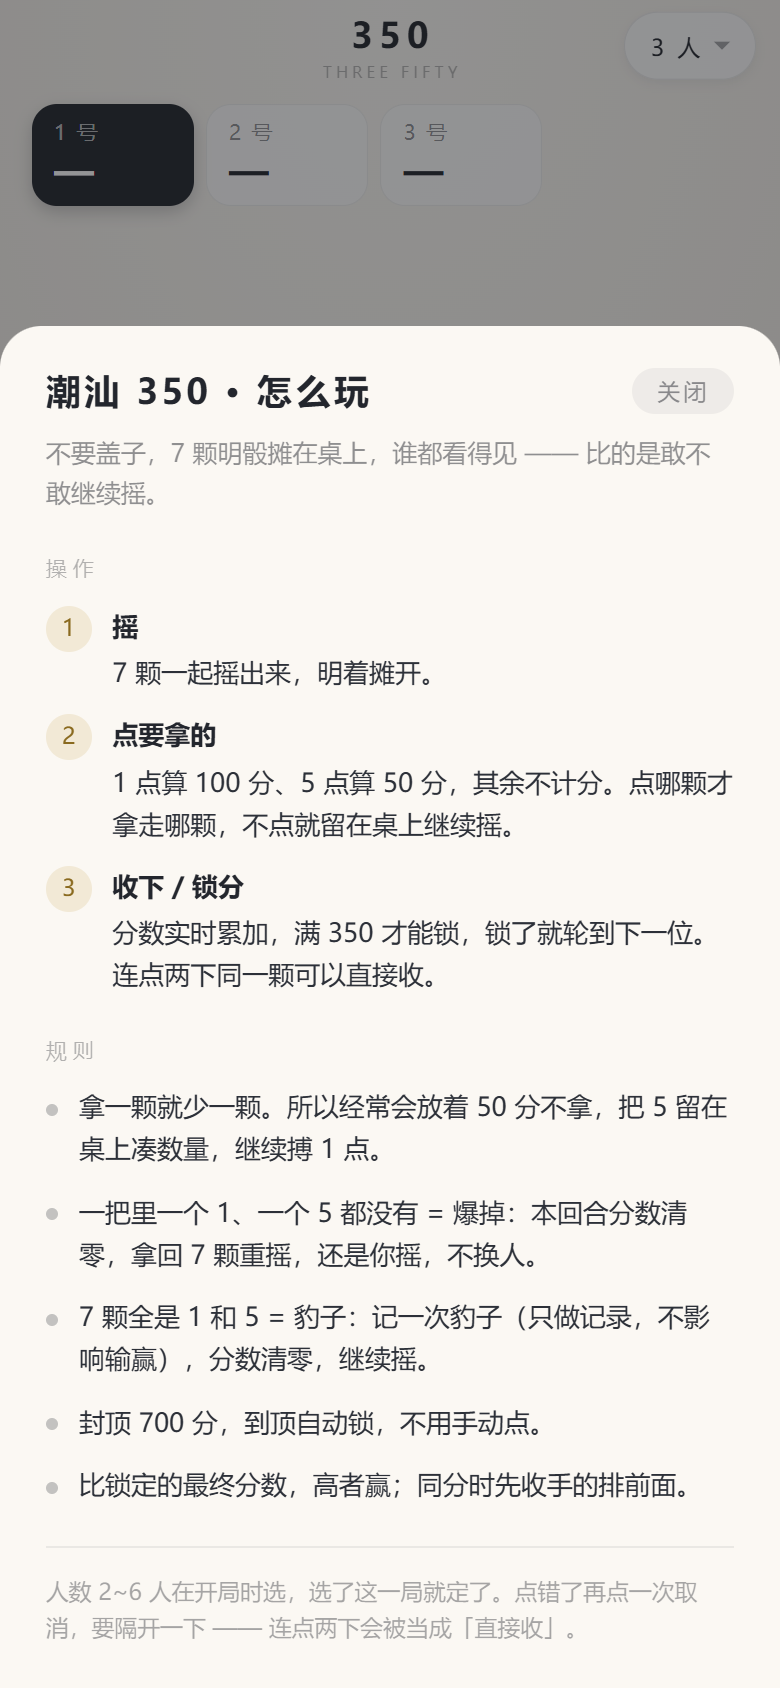
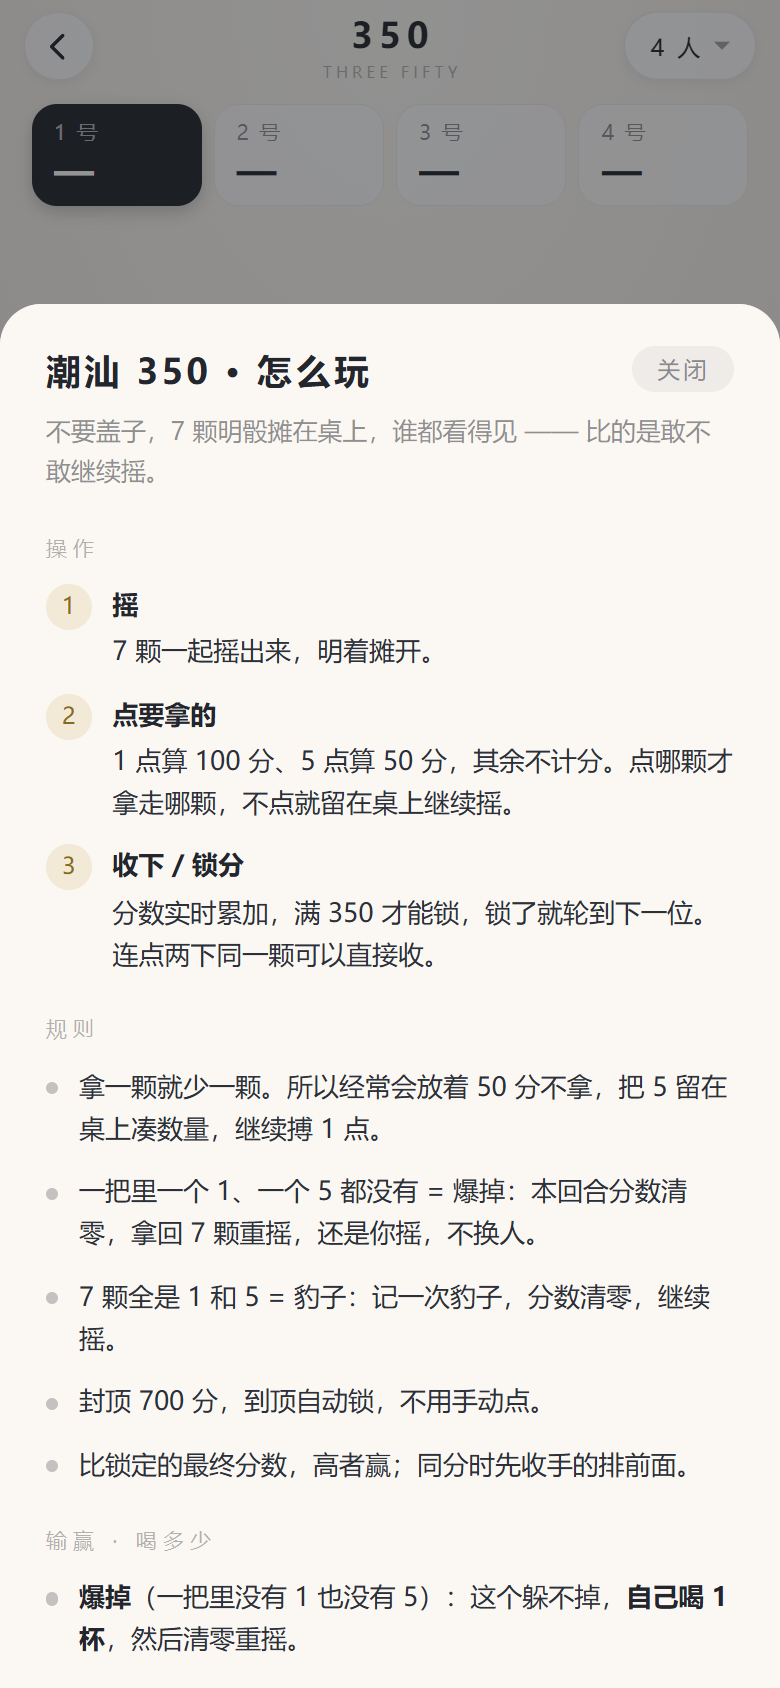
chore: sync

diff --git a/app/src/clean/assets/www/f350.js b/app/src/clean/assets/www/f350.js
@@ -292,8 +292,16 @@
     var list = liveHand();
     if (!list.length) return;
 
-    /* 豹子：7 颗全是 1 和 5 —— 记一次，分数清零，重新拿 7 颗继续摇 */
+    /* 豹子：7 颗全是 1 和 5 —— 记一次，分数清零，重新拿 7 颗继续摇。
+       正豹（清一色 1 或 5）比 15 豹更狠：桌上其他人喝 2 杯，15 豹喝 1 杯，
+       摇的人自己不喝 —— 所以有人会专门去拼。 */
     if (isLion(list)) {
+      var allOne = true, allFive = true;
+      for (var q = 0; q < list.length; q++) {
+        if (list[q].v !== 1) allOne = false;
+        if (list[q].v !== 5) allFive = false;
+      }
+      var pure = allOne || allFive;
       current().lion = (current().lion || 0) + 1;
       G.round = 0;
       G.taken = [];
@@ -302,7 +310,8 @@
       G.phase = 'ready';
       save();
       render();
-      hint('豹子 · 记 1 次，分数清零，重新摇', 'gold');
+      hint(pure ? '正豹！其他每人喝 2 杯 · 分数清零重摇'
+                : '15 豹！其他每人喝 1 杯 · 分数清零重摇', 'gold');
       vibrate([16, 60, 16, 60, 26]);
       return;
     }
@@ -321,7 +330,7 @@
       G.phase = 'bust';
       save();
       render();
-      hint('一个 1 和 5 都没有 · 分数清零 · 点「清零重摇」继续', 'warn');
+      hint('爆了 · 喝 1 杯 · 分数清零，点「清零重摇」继续', 'warn');
       vibrate([40, 70, 40]);
       return;
     }
@@ -759,7 +768,7 @@
     }
     openMask(
       '<span class="f3-sheet-title">' + arr[0].name + ' 赢</span>' +
-      '<span class="f3-sheet-sub">同分先收手的排前面</span>' +
+      '<span class="f3-sheet-sub">同分先收手的排前面 · 最低的喝 2 杯</span>' +
       '<div class="f3-rank">' + rows + '</div>' +
       '<button class="btn primary" data-act="restart">再来一局</button>'
     );
@@ -1117,11 +1126,21 @@
       rules: [
         '拿一颗就少一颗。所以经常会放着 50 分不拿，把 5 留在桌上凑数量，继续搏 1 点。',
         '一把里一个 1、一个 5 都没有 = 爆掉：本回合分数清零，拿回 7 颗重摇，还是你摇，不换人。',
-        '7 颗全是 1 和 5 = 豹子：记一次豹子（只做记录，不影响输赢），分数清零，继续摇。',
+        '7 颗全是 1 和 5 = 豹子：记一次豹子，分数清零，继续摇。',
         '封顶 700 分，到顶自动锁，不用手动点。',
         '比锁定的最终分数，高者赢；同分时先收手的排前面。'
       ],
-      note: '人数 2~6 人，开局时选；想改点右上角的「N 人」，换了人数会重开一局。点错了再点一次取消要隔开一下 —— 连点两下会被当成「直接收」。'
+      /* 这几条是桌上真正分酒的地方。App 只算分、只记豹子，
+         喝多少由桌上自己定，所以单独一段，跟「规则」分开写。 */
+      drinks: [
+        '<strong>爆掉</strong>（一把里没有 1 也没有 5）：这个躲不掉，<strong>自己喝 1 杯</strong>，然后清零重摇。',
+        '<strong>摇出豹子</strong>：摇的人不喝，台上其他人一起喝 —— ' +
+        '<strong>15 豹</strong>（1 和 5 混着）每人 <strong>1 杯</strong>；' +
+        '<strong>正豹</strong>（清一色 1111111 或 5555555）每人 <strong>2 杯</strong>。',
+        '所以有人会专门去拼豹子：自己一分不涨、还不用喝，一桌人都得端杯。',
+        '<strong>整局打完</strong>：分数最低的喝 <strong>2 杯</strong>。'
+      ],
+      note: '上面这些杯数是默认值，开局前按自己的量定，能加能减。App 只管算分和记豹子，喝不喝、喝多少在桌上说好。想改人数点右上角「N 人」（2~12），换人数会重开一局。'
     }
   };
 
@@ -1141,7 +1160,16 @@
     for (var j = 0; j < r.rules.length; j++) {
       h += '<div class="rule-li"><em></em><span>' + r.rules[j] + '</span></div>';
     }
-    h += '</div><div class="rule-note">' + r.note + '</div>';
+    h += '</div>';
+    /* 「喝多少」单独一段：这是桌上真正分酒的地方，混在规则里容易被当成可选事项划过去 */
+    if (r.drinks) {
+      h += '<div class="rule-sec"><div class="rule-sec-t">输赢 · 喝多少</div>';
+      for (var k = 0; k < r.drinks.length; k++) {
+        h += '<div class="rule-li"><em></em><span>' + r.drinks[k] + '</span></div>';
+      }
+      h += '</div>';
+    }
+    h += '<div class="rule-note">' + r.note + '</div>';
 
     $('ruleBody').innerHTML = h;
     mask.style.display = 'flex';

diff --git a/app/src/full/assets/www/f350.js b/app/src/full/assets/www/f350.js
@@ -292,8 +292,16 @@
     var list = liveHand();
     if (!list.length) return;
 
-    /* 豹子：7 颗全是 1 和 5 —— 记一次，分数清零，重新拿 7 颗继续摇 */
+    /* 豹子：7 颗全是 1 和 5 —— 记一次，分数清零，重新拿 7 颗继续摇。
+       正豹（清一色 1 或 5）比 15 豹更狠：桌上其他人喝 2 杯，15 豹喝 1 杯，
+       摇的人自己不喝 —— 所以有人会专门去拼。 */
     if (isLion(list)) {
+      var allOne = true, allFive = true;
+      for (var q = 0; q < list.length; q++) {
+        if (list[q].v !== 1) allOne = false;
+        if (list[q].v !== 5) allFive = false;
+      }
+      var pure = allOne || allFive;
       current().lion = (current().lion || 0) + 1;
       G.round = 0;
       G.taken = [];
@@ -302,7 +310,8 @@
       G.phase = 'ready';
       save();
       render();
-      hint('豹子 · 记 1 次，分数清零，重新摇', 'gold');
+      hint(pure ? '正豹！其他每人喝 2 杯 · 分数清零重摇'
+                : '15 豹！其他每人喝 1 杯 · 分数清零重摇', 'gold');
       vibrate([16, 60, 16, 60, 26]);
       return;
     }
@@ -321,7 +330,7 @@
       G.phase = 'bust';
       save();
       render();
-      hint('一个 1 和 5 都没有 · 分数清零 · 点「清零重摇」继续', 'warn');
+      hint('爆了 · 喝 1 杯 · 分数清零，点「清零重摇」继续', 'warn');
       vibrate([40, 70, 40]);
       return;
     }
@@ -759,7 +768,7 @@
     }
     openMask(
       '<span class="f3-sheet-title">' + arr[0].name + ' 赢</span>' +
-      '<span class="f3-sheet-sub">同分先收手的排前面</span>' +
+      '<span class="f3-sheet-sub">同分先收手的排前面 · 最低的喝 2 杯</span>' +
       '<div class="f3-rank">' + rows + '</div>' +
       '<button class="btn primary" data-act="restart">再来一局</button>'
     );
@@ -1117,11 +1126,21 @@
       rules: [
         '拿一颗就少一颗。所以经常会放着 50 分不拿，把 5 留在桌上凑数量，继续搏 1 点。',
         '一把里一个 1、一个 5 都没有 = 爆掉：本回合分数清零，拿回 7 颗重摇，还是你摇，不换人。',
-        '7 颗全是 1 和 5 = 豹子：记一次豹子（只做记录，不影响输赢），分数清零，继续摇。',
+        '7 颗全是 1 和 5 = 豹子：记一次豹子，分数清零，继续摇。',
         '封顶 700 分，到顶自动锁，不用手动点。',
         '比锁定的最终分数，高者赢；同分时先收手的排前面。'
       ],
-      note: '人数 2~6 人，开局时选；想改点右上角的「N 人」，换了人数会重开一局。点错了再点一次取消要隔开一下 —— 连点两下会被当成「直接收」。'
+      /* 这几条是桌上真正分酒的地方。App 只算分、只记豹子，
+         喝多少由桌上自己定，所以单独一段，跟「规则」分开写。 */
+      drinks: [
+        '<strong>爆掉</strong>（一把里没有 1 也没有 5）：这个躲不掉，<strong>自己喝 1 杯</strong>，然后清零重摇。',
+        '<strong>摇出豹子</strong>：摇的人不喝，台上其他人一起喝 —— ' +
+        '<strong>15 豹</strong>（1 和 5 混着）每人 <strong>1 杯</strong>；' +
+        '<strong>正豹</strong>（清一色 1111111 或 5555555）每人 <strong>2 杯</strong>。',
+        '所以有人会专门去拼豹子：自己一分不涨、还不用喝，一桌人都得端杯。',
+        '<strong>整局打完</strong>：分数最低的喝 <strong>2 杯</strong>。'
+      ],
+      note: '上面这些杯数是默认值，开局前按自己的量定，能加能减。App 只管算分和记豹子，喝不喝、喝多少在桌上说好。想改人数点右上角「N 人」（2~12），换人数会重开一局。'
     }
   };
 
@@ -1141,7 +1160,16 @@
     for (var j = 0; j < r.rules.length; j++) {
       h += '<div class="rule-li"><em></em><span>' + r.rules[j] + '</span></div>';
     }
-    h += '</div><div class="rule-note">' + r.note + '</div>';
+    h += '</div>';
+    /* 「喝多少」单独一段：这是桌上真正分酒的地方，混在规则里容易被当成可选事项划过去 */
+    if (r.drinks) {
+      h += '<div class="rule-sec"><div class="rule-sec-t">输赢 · 喝多少</div>';
+      for (var k = 0; k < r.drinks.length; k++) {
+        h += '<div class="rule-li"><em></em><span>' + r.drinks[k] + '</span></div>';
+      }
+      h += '</div>';
+    }
+    h += '<div class="rule-note">' + r.note + '</div>';
 
     $('ruleBody').innerHTML = h;
     mask.style.display = 'flex';

diff --git a/app/src/clean/assets/www/index.html b/app/src/clean/assets/www/index.html
@@ -63,7 +63,7 @@
 
     <div class="home-tip" id="homeTip"></div>
 
-    <div class="home-foot" id="homeVer">v1.10.6 · 仅供朋友聚会娱乐</div>
+    <div class="home-foot" id="homeVer">v1.10.7 · 仅供朋友聚会娱乐</div>
   </div>
 </div>
 
@@ -179,7 +179,7 @@
     <div class="hint" id="hint">点「摇一摇」开始这一局</div>
     <div class="btn-row" id="btnRow"></div>
     <div class="foot">
-      <span>v1.10.6</span>
+      <span>v1.10.7</span>
       <button class="mode-link" id="ruleBtn">玩法说明</button>
     </div>
   </div>

diff --git a/app/src/full/assets/www/index.html b/app/src/full/assets/www/index.html
@@ -63,7 +63,7 @@
 
     <div class="home-tip" id="homeTip"></div>
 
-    <div class="home-foot" id="homeVer">v1.10.6 · 仅供朋友聚会娱乐</div>
+    <div class="home-foot" id="homeVer">v1.10.7 · 仅供朋友聚会娱乐</div>
   </div>
 </div>
 
@@ -179,7 +179,7 @@
     <div class="hint" id="hint">点「摇一摇」开始这一局</div>
     <div class="btn-row" id="btnRow"></div>
     <div class="foot">
-      <span>v1.10.6</span>
+      <span>v1.10.7</span>
       <button class="mode-link" id="ruleBtn">玩法说明</button>
     </div>
   </div>

diff --git a/app/src/full/assets/www/app.css b/app/src/full/assets/www/app.css
@@ -1267,6 +1267,12 @@ body.tap-edit .die-slot:active .die {
   font-weight: 600;
   color: #23262d;
 }
+/* 「喝多少」那几条里的强调是行内的，不能套上面那个 display:block —— 
+   否则一句话会被拆成好几行 */
+.rule-li strong {
+  font-weight: 600;
+  color: #23262d;
+}
 
 .rule-note {
   margin-top: 5.3333vw;

diff --git a/app/src/clean/assets/www/app.css b/app/src/clean/assets/www/app.css
@@ -955,6 +955,12 @@ button[disabled] { opacity: 1; }
   font-weight: 600;
   color: #23262d;
 }
+/* 「喝多少」那几条里的强调是行内的，不能套上面那个 display:block —— 
+   否则一句话会被拆成好几行 */
+.rule-li strong {
+  font-weight: 600;
+  color: #23262d;
+}
 
 .rule-note {
   margin-top: 5.3333vw;

diff --git a/app/src/clean/assets/www/sw.js b/app/src/clean/assets/www/sw.js
@@ -1,5 +1,5 @@
 /* 离线缓存：装到桌面后断网也能玩 */
-var CACHE = 'liars-dice-clean-v32';
+var CACHE = 'liars-dice-clean-v33';
 var FILES = [
   './',
   './index.html',

diff --git a/app/src/full/assets/www/sw.js b/app/src/full/assets/www/sw.js
@@ -1,5 +1,5 @@
 /* 离线缓存：装到桌面后断网也能玩 */
-var CACHE = 'liars-dice-v32';
+var CACHE = 'liars-dice-v33';
 var FILES = [
   './',
   './index.html',

diff --git a/README.md b/README.md
@@ -19,7 +19,8 @@
 - **单人模式**：进去是**玩法选择页**，吹牛骰子和 350 各一张卡，上次玩过的会挂个「上次玩的」角标
 - **吹牛骰子**：摇一摇 → 盖子合着 → 掀盖看点数（可停半开）→ 锁定，骰子数量 2~10 颗可调
 - **350**：不要盖子，明骰直接摇。1 点算 100、5 点算 50，满 350 才能收手，封顶 700，**人数开局后还能改**，
-  收下的骰子会一颗颗摆在「本回合」分数上面，和桌上的一样大，桌上剩的还能接着收；退出再进来还是原样
+  收下的骰子会一颗颗摆在「本回合」分数上面，和桌上的一样大，桌上剩的还能接着收；退出再进来还是原样。
+  罚酒的规矩也写进去了：**爆掉自己喝 1 杯、出豹子其他人喝、整局最低的喝 2 杯**
 
 两个玩法里都有一个**「玩法说明」**按钮，规则写在 App 里，不用每次开局口头讲一遍。
 
@@ -159,11 +160,11 @@ APK 里的 `assets/www` 是从仓库外的两个源码目录同步来的（`liar
 | 骰子 | 固定 **7 颗** |
 | 计分 | **1 点 = 100 分，5 点 = 50 分**；2 / 3 / 4 / 6 不计分 |
 | 一轮怎么走 | 摇完**自己点**要拿走的 1 和 5 —— 点过的才算拿走，没点的留在桌上继续摇 |
-| 爆掉 | 一把里**一个 1 也没有、一个 5 也没有** → 本回合分清零，**等你按「清零重摇」**才拿回 7 颗继续。不换人，也不自动清屏 |
+| 爆掉 | 一把里**一个 1 也没有、一个 5 也没有** → 本回合分清零，**等你按「清零重摇」**才拿回 7 颗继续。不换人，也不自动清屏。**摇的人喝 1 杯** |
 | 收手 | **满 350 分才能锁**，锁了就轮到下一位 |
 | 封顶 | **700 分**，到顶自动锁，不用手动点 |
-| 豹子 | 7 颗**全是 1 和 5** → 记 1 次豹子（只做记录，不影响胜负），分数清零，还是他继续摇 |
-| 胜负 | 比锁定的最终分数，高者胜；**同分时先收手的排前面** |
+| 豹子 | 7 颗**全是 1 和 5** → 记 1 次豹子（只做记录，不影响胜负），分数清零，还是他继续摇。**摇的人不喝，台上其他人喝**：混着 1 和 5 的「15 豹」每人 1 杯，清一色 1111111 / 5555555 的「正豹」每人 2 杯 |
+| 胜负 | 比锁定的最终分数，高者胜；**同分时先收手的排前面**，**分数最低的喝 2 杯** |
 
 <p align="center">
   <img src="docs/shots/f350-idle.png" width="23%" alt="350 开局：7 个空位">
@@ -173,6 +174,25 @@ APK 里的 `assets/www` 是从仓库外的两个源码目录同步来的（`liar
 <p align="center">
   <sub>开局 7 颗空位 → 点要拿走的 1 和 5（不点就不拿）→ 四人结算排名</sub>
 </p>
+
+### 输赢 · 喝多少
+
+350 在桌上本来就是罚酒的玩法。App 只算分，杯数照老规矩来：
+
+| 什么时候 | 谁喝 | 喝多少 |
+| --- | --- | --- |
+| **爆掉** —— 一把里一个 1 一个 5 都没有 | 摇的人自己，躲不掉 | **1 杯** |
+| **15 豹** —— 7 颗全是 1 和 5，1 和 5 混着 | 台上其他所有人 | 每人 **1 杯** |
+| **正豹** —— 清一色 `1111111` 或 `5555555` | 台上其他所有人 | 每人 **2 杯** |
+| **整局打完** —— 分数最低的那个 | 最后一名 | **2 杯** |
+
+豹子这一条的关键是**摇的人不喝**：自己一分不涨，还得把分数清零重摇，代价已经先付了，一桌人端杯。
+
+所以打到中后段会有人专门去**拼豹子** —— 反正手气不好、分也追不上，干脆搏一把全桌陪你喝。
+这也是 350 比闷头算分好玩的地方：桌上多了一个「要不要赌一把」的选择。
+
+杯数是**默认值**，开局前按自己的量说好，能加能减；喝不了酒的喝水、喝饮料一样算数。
+App 不记谁喝了多少，也记不了 —— 桌上说好的规矩比 App 重要。
 
 ### 人数开局后还能改
 
@@ -199,10 +219,11 @@ APK 里的 `assets/www` 是从仓库外的两个源码目录同步来的（`liar
 ### 爆掉了不会自动清屏
 
 <p align="center">
-  <img src="docs/shots/f350-bust.png" width="29%" alt="爆掉：提示红字 + 只剩「清零重摇」一个按钮，结果留在桌上">
+  <img src="docs/shots/f350-bust.png" width="29%" alt="爆掉：红字提示「喝 1 杯 · 分数清零」，只剩「清零重摇」一个按钮，结果留在桌上">
 </p>
 
 摇出来**一个 1 和一个 5 都没有**的时候，本回合的分数清零 —— 但桌上的 7 颗骰子**不会自己消失**。
+提示也把话说全了：「**爆了 · 喝 1 杯 · 分数清零**」，省得新上桌的人还要问一句「这个要不要喝」。
 
 以前这里是 1.6 秒后自动拿回 7 颗，看着利索，实际一桌人经常还没看清点数就没了，
 只能听别人说「你去拿 7 颗」。现在改成：结果停在桌上，按钮只剩一个「**清零重摇**」，
@@ -282,7 +303,11 @@ APK 里的 `assets/www` 是从仓库外的两个源码目录同步来的（`liar
 ## 玩法说明
 
 <p align="center">
-  <img src="docs/shots/rules.png" width="29%" alt="350 的玩法说明：操作三步 + 规则清单">
+  <img src="docs/shots/rules.png" width="29%" alt="350 的玩法说明：操作三步 + 规则清单，最后一段是「输赢 · 喝多少」">
+  <img src="docs/shots/rules-drinks.png" width="29%" alt="往下滚：输赢 · 喝多少 —— 爆掉 1 杯、15 豹每人 1 杯、正豹每人 2 杯、整局最低 2 杯">
+</p>
+<p align="center">
+  <sub>同一个说明层：上面是操作和规则 → 往下滚是「输赢 · 喝多少」</sub>
 </p>
 
 两个玩法页底栏都有「玩法说明」，从底部升起一张卡片：上面是**操作**（分步骤，配序号），
@@ -292,8 +317,15 @@ APK 里的 `assets/www` 是从仓库外的两个源码目录同步来的（`liar
 
 - **吹牛骰子**：App 只管摇和盖，所以说明写的是桌上通用的叫点打法 —— 1 点万能、轮流往上叫、
   不信就开、斋了 1 就只是 1。各地讲究不一样的地方，最后一句专门提醒「开打前先说好」
-- **350**：完全按代码里的判定写 —— 1 点 100、5 点 50、不点就不拿、一炮无分清零、
+- **350 规则**：完全按代码里的判定写 —— 1 点 100、5 点 50、不点就不拿、一炮无分清零、
   7 颗全是 1 和 5 记豹子、满 350 才能锁、封顶 700、同分先收手的排前面
+- **350 输赢**：多一段「**输赢 · 喝多少**」—— 爆掉自己 1 杯、15 豹其他人各 1 杯、正豹各 2 杯、
+  整局最低的 2 杯，并注明杯数只是默认值，开局前按自己的量定
+
+摇出豹子、摇到爆掉的时候，底部那行提示也把杯数一起说了：**「正豹！其他每人喝 2 杯 · 分数清零重摇」**、
+**「15 豹！其他每人喝 1 杯 · 分数清零重摇」**、**「爆了 · 喝 1 杯 · 分数清零」**；
+结算页标题下面写着「同分先收手的排前面 · **最低的喝 2 杯**」。
+不用翻说明，当下就知道该谁端杯。
 
 点右上角「关闭」或卡片外面的空白都能收起来；内容超过一屏时可以滚，每次打开都从顶上开始。
 
